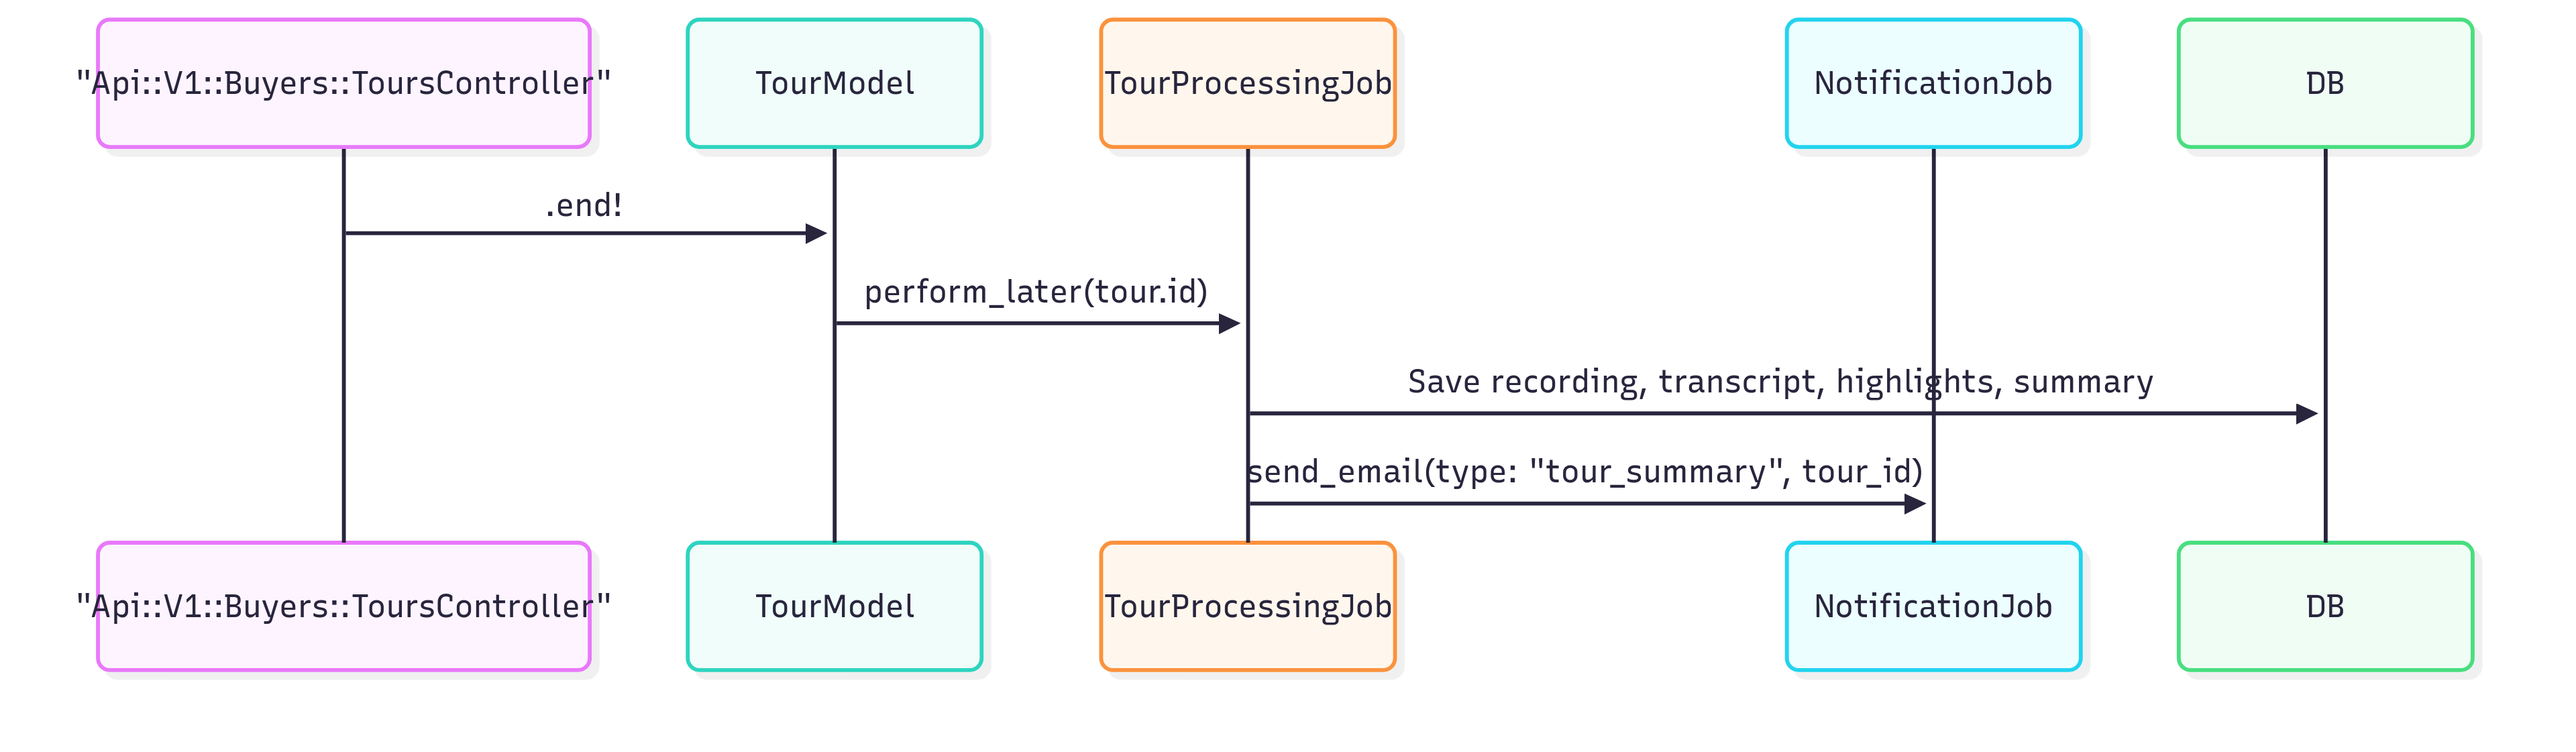
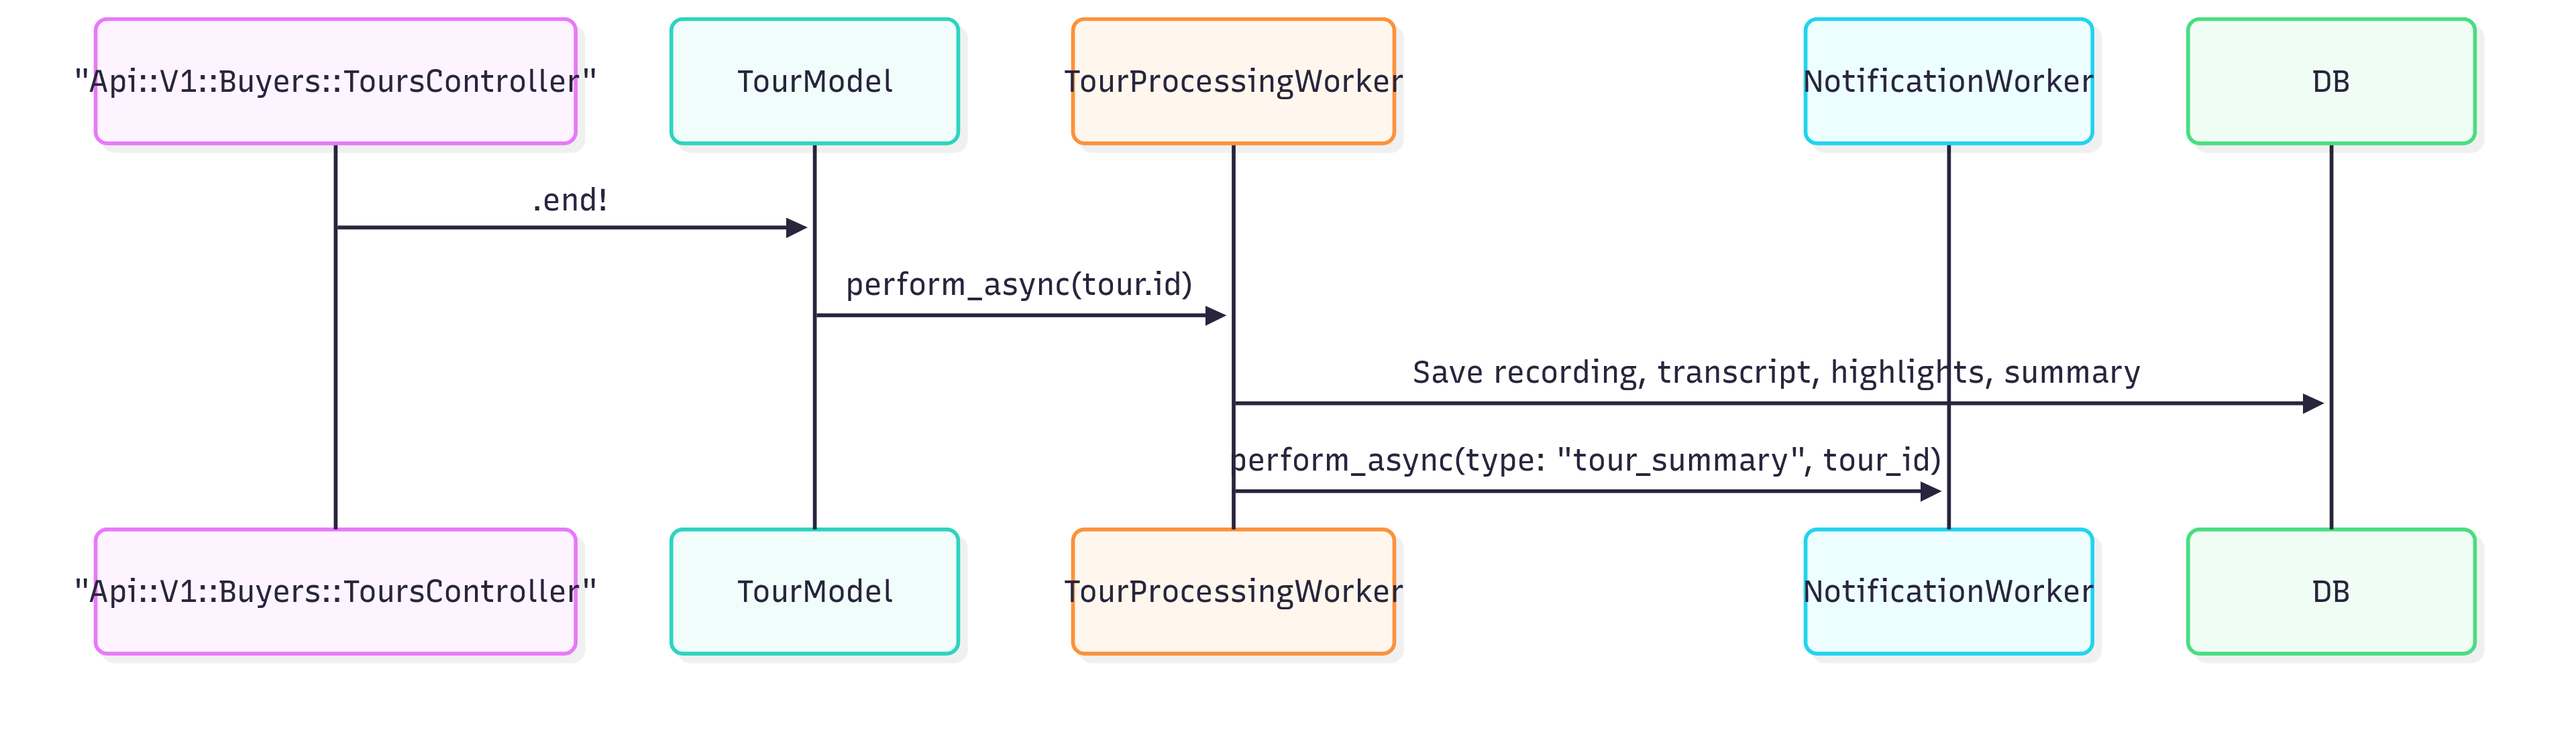
use workers instead of jobs

diff --git a/architecture/BACKEND_ARCHITECTURE.md b/architecture/BACKEND_ARCHITECTURE.md
@@ -90,10 +90,10 @@ app/
 │   ├── highlight_detection_service.rb
 │   ├── summary_service.rb
 │   └── image_processing_service.rb
-├── jobs/
-│   ├── notification_job.rb
-│   ├── tour_processing_job.rb
-│   └── image_processing_job.rb
+├── workers/
+│   ├── notification_worker.rb
+│   ├── tour_processing_worker.rb
+│   └── image_processing_worker.rb
 └── concerns/
     ├── authentication.rb
     ├── caching.rb
@@ -616,13 +616,13 @@ end
 ```
 </details>
 
-## Background Jobs
+## Background Workers
 
-| Job Type | Description |
-|----------|-------------|
-| **Notification Job** | Email reminders, tour notifications, booking confirmations |
-| **Tour Processing Job** | Handle tour lifecycle, recordings, transcription, highlights, summaries |
-| **Image Processing Job** | Resize/compress property images on upload |
+| Worker Type | Description |
+|-------------|-------------|
+| **Notification Worker** | Email reminders, tour notifications, booking confirmations |
+| **Tour Processing Worker** | Handle tour lifecycle, recordings, transcription, highlights, summaries |
+| **Image Processing Worker** | Resize/compress property images on upload |
 
 <details>
 <summary><strong>Notification Jobs</strong></summary>
@@ -634,7 +634,7 @@ class Api::V1::Buyers::BookingsController < ApplicationController
     booking = current_user.bookings.create!(booking_params)
     
     # Send notification to realtor about new booking request
-    NotificationJob.perform_later('new_booking_request', { booking_id: booking.id })
+    NotificationWorker.perform_async('new_booking_request', { booking_id: booking.id })
     
     render json: booking, status: :created
   end
@@ -665,11 +665,11 @@ class Api::V1::Realtors::BookingsController < ApplicationController
       )
       
       # Send confirmation to both parties
-      NotificationJob.perform_later('booking_confirmation', { booking_id: booking.id })
+      NotificationWorker.perform_async('booking_confirmation', { booking_id: booking.id })
       
       # Schedule reminder 15 minutes before tour
       reminder_time = booking.scheduled_at - 15.minutes
-      NotificationJob.set(wait_until: reminder_time).perform_later('booking_reminder', { booking_id: booking.id })
+      NotificationWorker.perform_at(reminder_time, 'booking_reminder', { booking_id: booking.id })
       
       render json: { booking: booking, tour: tour, call: call }
     end
@@ -681,7 +681,7 @@ class Api::V1::Realtors::ToursController < ApplicationController
     tour = Tour.find(params[:id])
     
     # Start tour processing
-    TourProcessingJob.perform_later('start_tour', { tour_id: tour.id })
+    TourProcessingWorker.perform_async('start_tour', { tour_id: tour.id })
     
     render json: { message: 'Tour starting...' }
   end
@@ -690,15 +690,16 @@ class Api::V1::Realtors::ToursController < ApplicationController
     tour = Tour.find(params[:id])
     
     # End tour and process everything
-    TourProcessingJob.perform_later('end_tour', { tour_id: tour.id })
+    TourProcessingWorker.perform_async('end_tour', { tour_id: tour.id })
     
     render json: { message: 'Tour ending...' }
   end
 end
 
-# app/jobs/notification_job.rb
-class NotificationJob < ApplicationJob
-  queue_as :default
+# app/workers/notification_worker.rb
+class NotificationWorker
+  include Sidekiq::Worker
+  sidekiq_options queue: 'default'
 
   def perform(notification_type, data)
     case notification_type
@@ -751,9 +752,10 @@ end
 <summary><strong>Tour Processing Jobs</strong></summary>
 
 ```ruby
-# app/jobs/tour_processing_job.rb
-class TourProcessingJob < ApplicationJob
-  queue_as :default
+# app/workers/tour_processing_worker.rb
+class TourProcessingWorker
+  include Sidekiq::Worker
+  sidekiq_options queue: 'default'
 
   def perform(processing_type, data)
     case processing_type
@@ -785,7 +787,7 @@ class TourProcessingJob < ApplicationJob
     )
     
     # Send notification
-    NotificationJob.perform_later('tour_start', { tour_id: tour_id })
+    NotificationWorker.perform_async('tour_start', { tour_id: tour_id })
   end
 
   def end_tour(tour_id)
@@ -801,7 +803,7 @@ class TourProcessingJob < ApplicationJob
     process_recording(tour_id)
     
     # Send notification
-    NotificationJob.perform_later('tour_end', { tour_id: tour_id })
+    NotificationWorker.perform_async('tour_end', { tour_id: tour_id })
   end
 
   def process_recording(tour_id)
@@ -868,9 +870,10 @@ end
 <summary><strong>Image Processing Job</strong></summary>
 
 ```ruby
-# app/jobs/image_processing_job.rb
-class ImageProcessingJob < ApplicationJob
-  queue_as :default
+# app/workers/image_processing_worker.rb
+class ImageProcessingWorker
+  include Sidekiq::Worker
+  sidekiq_options queue: 'default'
 
   def perform(image_id)
     image = PropertyImage.find(image_id)
@@ -1321,10 +1324,10 @@ spec/
 │   ├── summary_service_spec.rb
 │   ├── image_processing_service_spec.rb
 │   └── booking_confirmation_service_spec.rb
-├── jobs/
-│   ├── notification_job_spec.rb
-│   ├── tour_processing_job_spec.rb
-│   └── image_processing_job_spec.rb
+├── workers/
+│   ├── notification_worker_spec.rb
+│   ├── tour_processing_worker_spec.rb
+│   └── image_processing_worker_spec.rb
 ├── concerns/
 │   ├── authentication_spec.rb
 │   ├── logging_spec.rb

diff --git a/system-design.md b/system-design.md
@@ -74,7 +74,7 @@ Three separate tables support different layers of the tour experience. TOURS rep
 </details>
 
 <details>
-<summary><strong>Admins API namespace</strong></summary>
+<summary><strong>Admin API namespace</strong></summary>
 
 ### Property Endpoints
 
